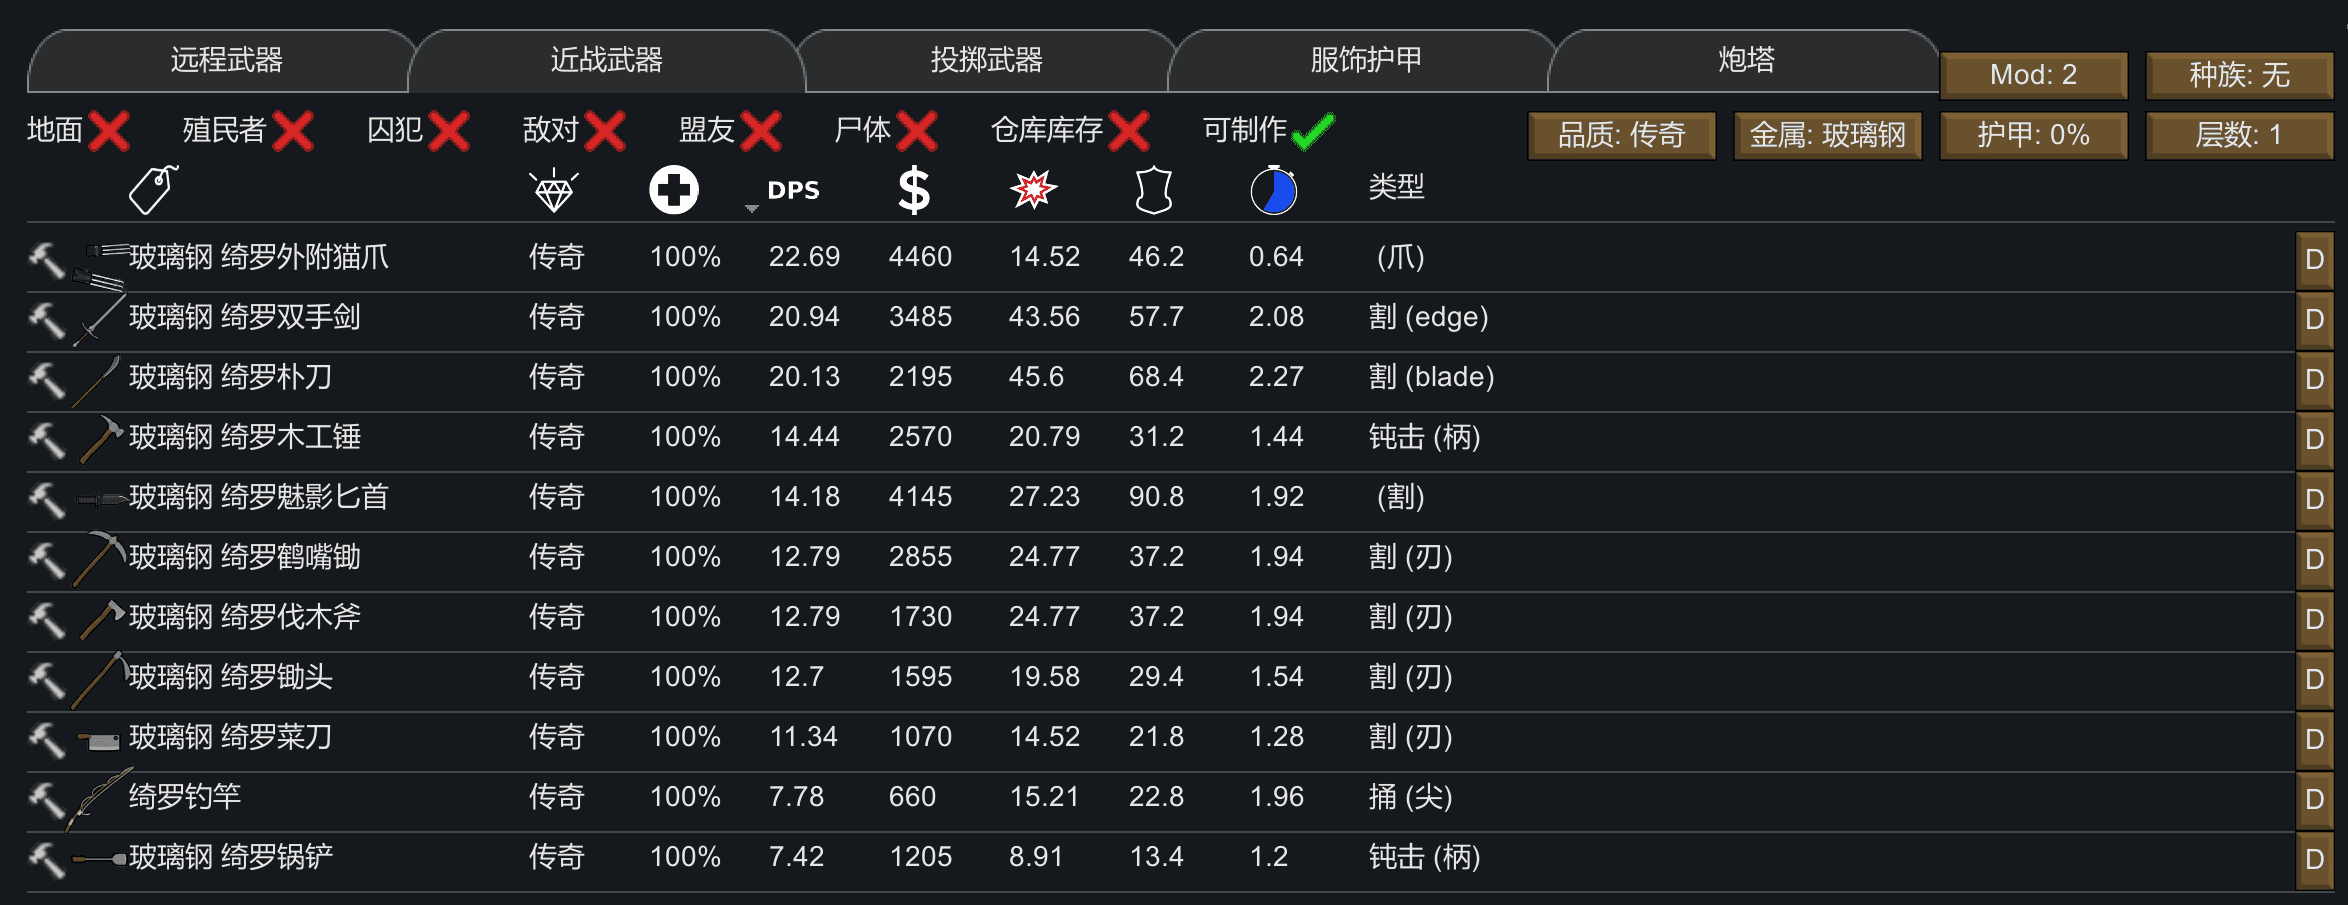
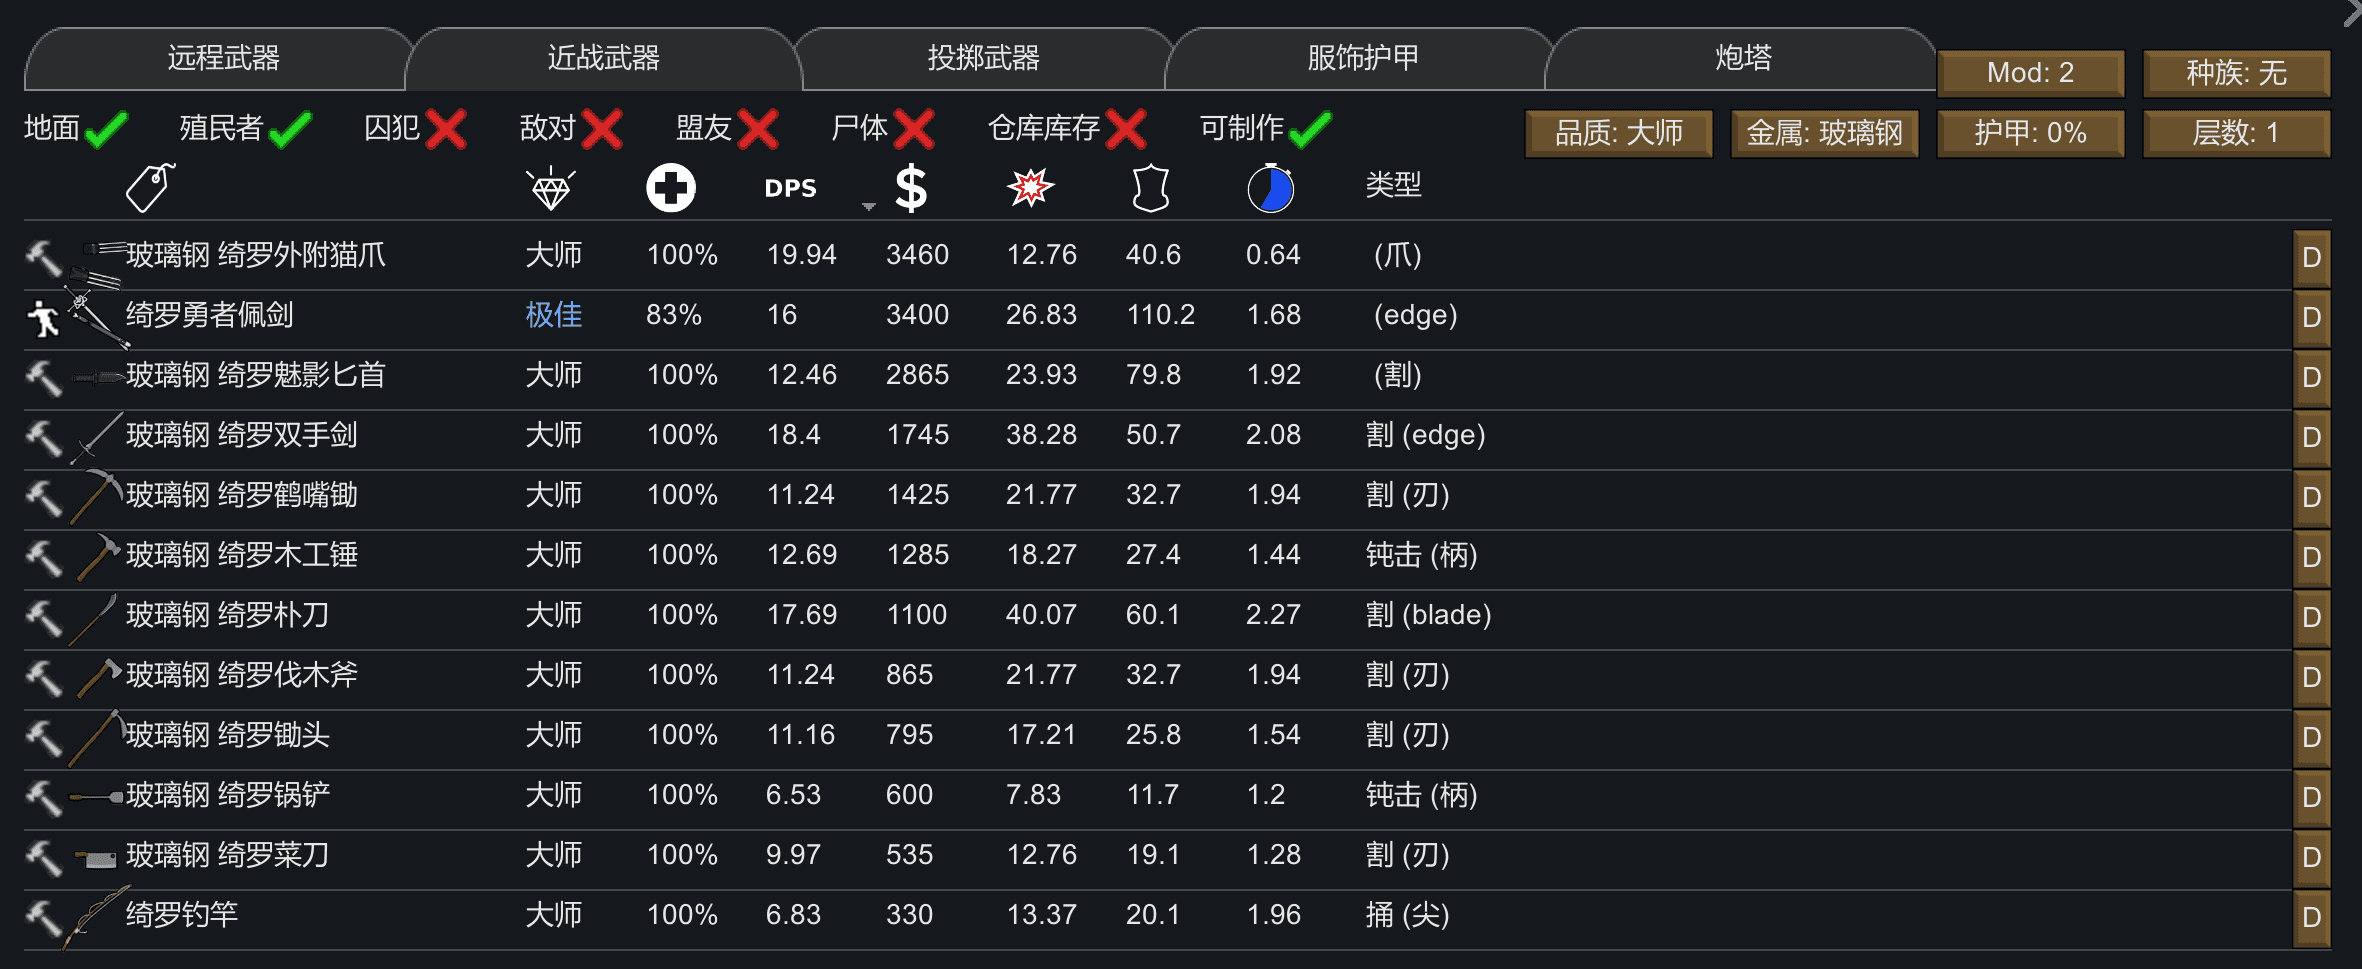
Auto backup: 2026/5/15 18:54:29

Changed region(s): [[0.0, 0.0, 0.9949, 0.9901], [0.9949, 0.0, 1.0, 0.0309], [0.0, 0.0309, 0.0311, 0.0619]]

diff --git a/source/_posts/Rimworld/二次元种族/绮罗.md b/source/_posts/Rimworld/二次元种族/绮罗.md
@@ -60,8 +60,8 @@ categories: [rimworld]
 图表为绮罗与智人种的所有对比, `/` 前的数值为未开启绮罗基因的值, `/` 后的数值为开启绮罗基因的值.  
 你说这未开启基因的全局学习系数是90%,开启了是100%×0.9还是90%,岂不是一样?实际是不一样的,当遇到一些加减算的时候就能明显体现出来,比方说神经超频+25%全局学习系数,在前者的最终值为90%+25%=115%,后者则是(100%+25%)×0.9=112.5%,直接差出来了2.5%,这样的乘算会将之后的修正值也进行缩小
 
-值得注意的是,绮罗族的近战闪避率最终结算时额外乘1.98,同时上限为99%,而非原版的50%,例如48点近战闪避的其余种族最终结算后为44%,绮罗族则为44%×1.98=87.12%  
-同时绮罗族有额外的"远程闪避率"属性,一般为近战闪避率的1/3,可由装备进一步加成,上限99%
+闪避率是绮罗的核心系统,绮罗族的近战闪避率上限为99%,而不是原版的50%.同时,绮罗族的近战闪避率最终结算时额外乘以(1+4.9%×格斗等级)(最大1.98),例如,一个10级格斗的绮罗,其先乘以1.2的基因闪避率,折合12点,进行后期处理曲线,变为14%,最后再变为 14%×(1+4.9%×10)=20.86%  
+同时,绮罗族拥有独特的"远程闪避率"属性,一般为近战闪避率的1/3,可由装备进一步加成,上限99%
 
 ## 基因/特性/心情
 
@@ -84,17 +84,19 @@ categories: [rimworld]
  -  怕痛:1复杂+2代谢 疼痛休克阈值×80%
 </details>
 
-**特性**:绮罗族有75%概率带有善良特性,50%概率带有敏捷特性,另有如下专属特性
+**特性**:绮罗族有75%概率带有善良特性,50%概率带有敏捷特性,另有如下种族专属特性
+ -  锐瞳:0.9权重 射击+2 射击精度+8
  -  小懒猫:0.9权重 休息效率乘数-20%
  -  小馋猫:0.9权重 烹饪+2 饥饿度×125% 有概率随机触发暴食崩溃
- -  购物狂:交易价格改善-8%
- -  铁公鸡:交易价格改善+8%
- -  锐瞳:0.9权重 射击+2 射击精度+8
- -  抵抗力:有毒环境抗性+25%
+ -  购物狂:0.9权重 交易价格改善-8%
+ -  铁公鸡:0.9权重 交易价格改善+8%
+ -  禁止特性:丑陋/丑绝人寰/烦人的声音/恶心的呼吸声/裸体主义/嗜血/食人者/纵火狂/贪食者/厌恶男性/厌恶女性/成瘾品爱好/成瘾品痴迷/坚韧
+
+下面这些则为背景故事专属特性,仅有刷了符合背景故事的哈绮罗才有可能获得,除了勇者都没啥用不做统计了,勇者为专属小人特性
  -  旧伤:移动速度-0.15 疼痛休克阈值-8% 承伤系数×105%
+ -  畏火:烹饪-5,无法灭火
+ -  抵抗力:有毒环境抗性+25%
  -  猫咪勇者:格斗+5 社交效果+25% 移速+0.4 疼痛休克阈值+20% 崩溃临界值-30% 近战闪避率+10 近战命中率+5 休息值下降速率-20% 愈合系数+12% 承伤系数×50%
- -  畏火:烹饪-5
- -  禁止特性:丑陋/烦人的声音/恶心的呼吸声/裸体主义/嗜血/食人者/纵火狂/贪食者/厌恶男性/厌恶女性/成瘾品爱好/成瘾品痴迷/坚韧
 
 **特殊心情** 以下内容为AI扒源码得出,未经过验证
 
@@ -110,7 +112,7 @@ categories: [rimworld]
  -  食用猫薄荷罐头 +6(持续0.5天)
  -  食用猫薄荷药丸 +2(持续0.5天)
  -  食用幼猫零食 -1(持续0.5天)
- -  亲人死亡心情:子女/配偶/孙辈 -30,父母 -25,未婚夫/妻 -26,恋人 -22,祖父母 -22,兄弟姐妹 -14,远亲 -6~-7(均持续15天,比原版略轻)
+ -  亲人死亡心情:子女/配偶/孙辈 -30,父母 -25,未婚夫/妻 -26,恋人 -22,祖父母 -22,兄弟姐妹 -14,远亲 -6~-7
  -  好感殖民者死亡 -5(持续10天) / 恶感殖民者死亡 +1(持续5天)
  -  同胞好感 +15社交好感(kiiro之间互相)
  -  收到折纸 +10社交好感 / +5心情(持续3天)
@@ -120,10 +122,39 @@ categories: [rimworld]
 
 ## 武器
 
+武器基础数值大家自行看表即可,这里只拿出有特殊效果或比较逆天的说
+
 <img src="/images/绮罗/绮罗-近战武器.png" style="max-width: 65em">
 
+ -  绮罗钓竿:钓鱼速度+20%
+ -  绮罗菜刀:屠宰速度+38% 屠宰效率+10%
+ -  绮罗锅铲:食物有毒率-12% 烹饪速度+0.4
+ -  绮罗鹤嘴锄:采矿效率+25% 采矿速度+45%
+ -  绮罗木工锤:建造速度+18% 建造成功率+6%
+ -  绮罗锄头:植物收获效率+35% 种植速度+12%
+ -  绮罗伐木斧:植物收获效率+15% 种植速度+50%
+ -  绮罗双手剑:移速-0.3
+ -  绮罗魅影匕首:60金属 近战命中率+3 攻击时有 2%×格斗(若格斗≤5) 9%×格斗-0.35(若格斗>5) 概率击中颈部,注意当格斗≥15时已是100%命中颈部
+ -  绮罗外附猫爪:80金属 近战命中率+3 近战闪避率+5 远程闪避率+5% 攻击结束后有50%概率追加一次攻击,最多叠加四次.期望次数为1.93次,从而实际dps为43.79
+ -  绮罗勇者佩剑:无法制作 近战命中率+4 近战闪避率+8 远程闪避率+6% 攻击结束后有30%概率追加一次攻击,最多叠加三次,期望次数为1.41次,从而实际dps为22.56
+
+绮罗一共就12把近战武器,我这里写了11把有特殊效果的,那么是谁没特殊效果呢?哈哈,是朴刀  
+工作类武器其实数值给的都挺慷慨,甚至可以叫轮椅了,尤其是锄头直接植物收获效率+35%,种100个水稻等于种135个水稻有感觉吗?你要知道种植专家才给你加30%,20级种植也才×113%.这采矿速度要是能应用到深钻井就好了,可惜应用不得.  
+战斗武器上,我讲真朴刀和双手剑的dps和长剑几乎没区别,唯一的优势是烧的材料少,这b双手剑甚至减移速,真是依托答辩.  
+魅影匕首和外附猫爪则是毕业武器了,六百六十六眼都不代言的了,一个锁头一个高伤害,43dps吓哭了,只可惜研究需要原型武器科技蓝图,很看脸前期压根爬不出来.勇者佩剑讲真感觉不如外附猫爪
+
 <img src="/images/绮罗/绮罗-远程武器.png" style="max-width: 65em">
+
+
 
 ## 衣物
 
 <img src="/images/绮罗/绮罗-衣物.png" style="max-width: 65em">
+
+## 派系
+绮罗专属派系为"绮罗隐居乡",中世纪科技等级,除了原版的批发商队,稀有商队外,添加了服装商,牧羊人,家政团三种商队
+ -  服装商卖皮革,纤维和绮罗衣物(不收原版衣物).有概率买到少量(<100)的魔菇布
+ -  牧羊人卖绵羊,布,羊毛等
+ -  家政团卖绮罗女仆(作为殖民者加入殖民地),其背景故事必定为绮罗女仆或绮罗女仆coser
+
+哈哈,真是完全没用的三种商队呢,感觉不如原版批发商稀有商